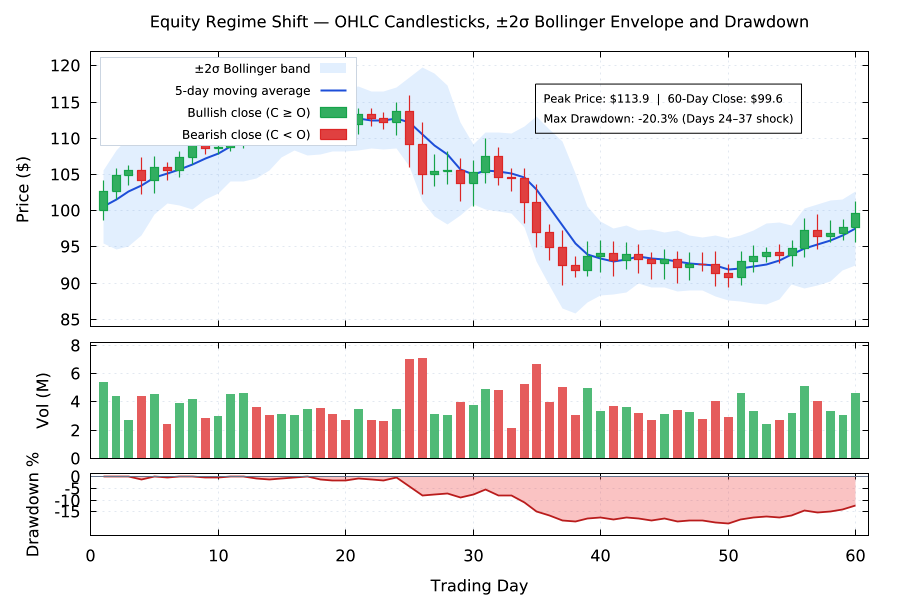
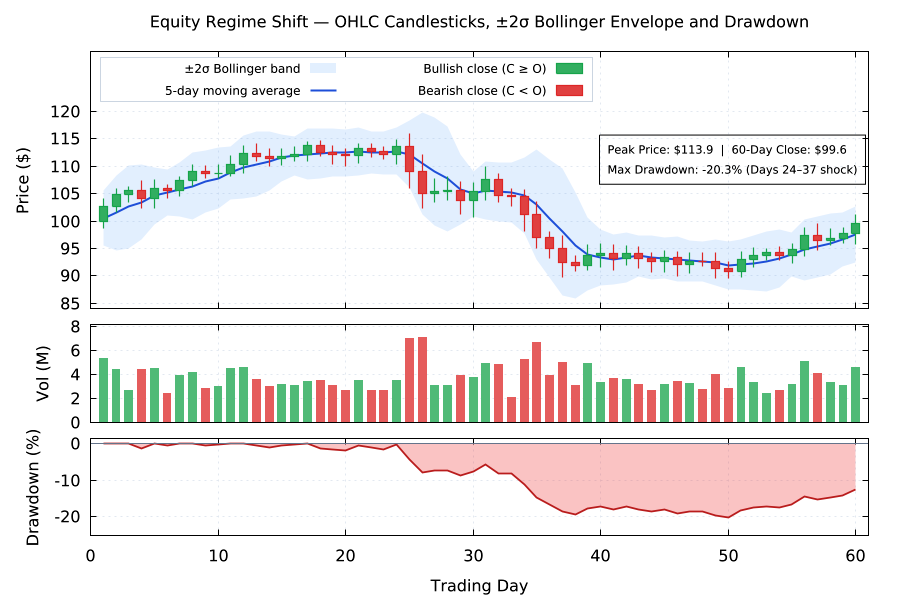
Fix Windows --dry-run, add Plot.assert_close, repair showcase figures
- --dry-run on Windows: fopen("NUL") failed through gnuplot's win_fopen;
  fall back to \\.\NUL and tmpfile() (CI failure on windows-x64).
- Plot.assert_close(actual, expected, tol), the family's known-answer check;
  schema, docs, test.sh error-path cases.
- test.sh/render-all.sh put the cached lmplot release ahead of the binary
  under test; skip it.
- Examples: phased array recomputed in gnuplot (complex sum[]) with measured
  nulls 14.5/48.6 deg and -12.8 dB side lobe asserted (the old text box
  contradicted its legend, and used a taper with negative edge weights);
  Landau surface: transition path was hidden under pm3d, now an aligned
  overlay layer, saddle found by Newton; urban heat island: real exp, finer
  grid, aligned panels, river channel, computed labels; legends no longer
  cover data in Kepler, quant, enzyme; blackbody label clear of the locus.

diff --git a/cpp/main.cpp b/cpp/main.cpp
@@ -7,6 +7,7 @@
 #include "schema_embedded.hpp"
 
 #include <cctype>
+#include <cmath>
 #include <cstdio>
 #include <cstdlib>
 #include <cstring>
@@ -220,6 +221,18 @@ void register_host(dslvm::Registry &r, Host &h) {
   });
   checked(r, "echo", {"string"}, "void", [](void *, Args &a) { std::fflush(stdout); std::cout << a[0].s << std::endl; return Value::none(); });
   checked(r, "version", {}, "string", [](void *, Args &) { return Value::string("lmplot " LMPLOT_VERSION); });
+  // assert_close(actual, expected, tol): the family's known-answer check (lmnum, lmphysics, lmcad).
+  checked(r, "assert_close", {"float", "float", "float"}, "void", [](void *, Args &a) {
+    for (int i = 0; i < 3; i++)
+      if (!std::isfinite(a[i].f)) throw dslvm::Error("Plot.assert_close: argument " + std::to_string(i + 1) + " is not finite");
+    if (a[2].f < 0) throw dslvm::Error("Plot.assert_close: tolerance is negative");
+    if (std::fabs(a[0].f - a[1].f) > a[2].f) {
+      char buf[160];
+      std::snprintf(buf, sizeof buf, "assert_close failed: actual=%.17g, expected=%.17g, tol=%.17g", a[0].f, a[1].f, a[2].f);
+      throw dslvm::Error(buf);
+    }
+    return Value::none();
+  });
 }
 
 const char *usage =

diff --git a/README.md b/README.md
@@ -16,10 +16,10 @@
 | <img src="docs/images/nozzle_cad_plot.png" width="290"> | <img src="docs/images/sir_epidemic_draw_plot.png" width="290"> | <img src="docs/images/quantum_packet.gif" width="290"> |
 | OpenCASCADE cutaway + Mach/P/T curves<br>`lmctl autorun https://raw.githubusercontent.com/lmctl-ai/lmplot/main/examples/combo/nozzle_cad_plot.lms` | Retained 2D diagram + RK4 trajectories<br>`lmctl autorun https://raw.githubusercontent.com/lmctl-ai/lmplot/main/examples/combo/sir_epidemic_draw_plot.lms` | 60-frame dispersive wave packet<br>`lmctl autorun https://raw.githubusercontent.com/lmctl-ai/lmplot/main/examples/video/quantum_packet.lms` |
 
-| Planck blackbody & Wien locus | Urban heat island & transects | Phased-array polar beamforming |
+| Planck blackbody & Wien locus | Urban heat island & transects | Phased-array beam steering |
 | --- | --- | --- |
 | <img src="docs/images/blackbody_planck.png" width="290"> | <img src="docs/images/urban_heat_island.png" width="290"> | <img src="docs/images/phased_array_polar.png" width="290"> |
-| Stellar spectra & bolometric flux<br>`lmctl autorun https://raw.githubusercontent.com/lmctl-ai/lmplot/main/examples/blackbody_planck.lms` | 2D anomaly map & river cooling dip<br>`lmctl autorun https://raw.githubusercontent.com/lmctl-ai/lmplot/main/examples/urban_heat_island.lms` | 8-element dB gain & side-lobe taper<br>`lmctl autorun https://raw.githubusercontent.com/lmctl-ai/lmplot/main/examples/phased_array_polar.lms` |
+| Stellar spectra & bolometric flux<br>`lmctl autorun https://raw.githubusercontent.com/lmctl-ai/lmplot/main/examples/blackbody_planck.lms` | 2D anomaly map & river cooling dip<br>`lmctl autorun https://raw.githubusercontent.com/lmctl-ai/lmplot/main/examples/urban_heat_island.lms` | Measured nulls & −12.8 dB side lobe vs taper<br>`lmctl autorun https://raw.githubusercontent.com/lmctl-ai/lmplot/main/examples/phased_array_polar.lms` |
 
 | Enzyme kinetics & Lineweaver–Burk | Driven damped harmonic resonance | Linear regression & `stats` round-trip |
 | --- | --- | --- |
@@ -104,6 +104,7 @@ and encode them into MP4/GIF animations with `ffmpeg`
 | `png(f, w, h)` / `svg(f, w, h)` / `close()` | choose the output file and flush it |
 | `num(expr)` / `str(expr)` | evaluate a gnuplot expression back into the script |
 | `echo(s)` / `terminals()` / `version()` | print, list terminals, version |
+| `assert_close(actual, expected, tol)` | stop with exit 3 unless `|actual - expected| <= tol` (known-answer checks) |
 
 A failing gnuplot command stops the program with exit code 3 and a JSON error
 line. `lmplot --dry-run --dsl prog.dslb` runs a program without writing any file

diff --git a/durable-memory/03-schema-v0.md b/durable-memory/03-schema-v0.md
@@ -18,6 +18,7 @@ runs immediately.
 | `terminals()` | string | gnuplot's `GPVAL_TERMINALS` |
 | `echo(string)` | void | print a line on stdout |
 | `version()` | string | `lmplot X.Y.Z` |
+| `assert_close(actual, expected, tol)` | void | run error (exit 3) `assert_close failed: actual=…, expected=…, tol=…` when `|actual-expected| > tol`; non-finite arguments or a negative tolerance are errors |
 
 Rules and gotchas:
 
